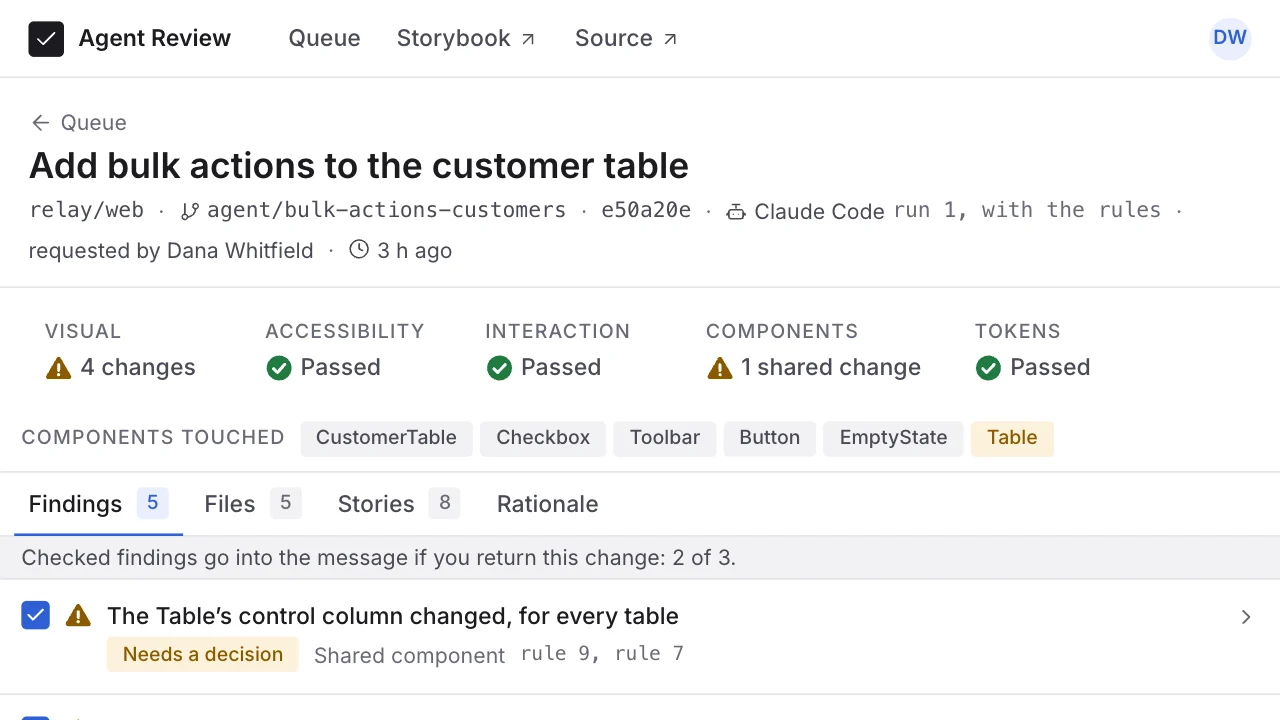
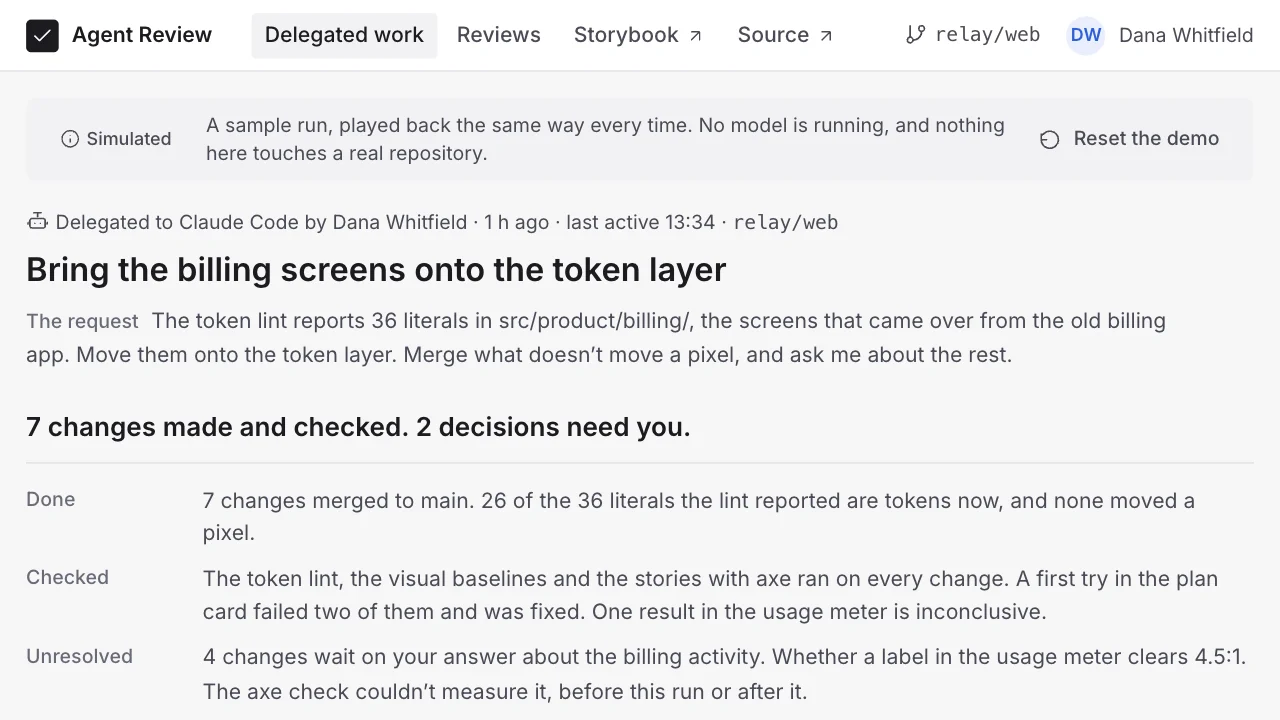
The Agent Review card and share images show the delegated work, the screen their words now describe
The card (homepage and lab index) is the product's front door at its 784px
tablet layout: the simulated label, the title and the account's first
three rows, whole, with the crop ending where the Scope row begins. The
share cards (og agent-review and lab) get their own square,
img/lab/agent-review-share.webp at 520 wide, because their frame crops a
16:9 picture to the middle and cut every line of this screen at both ends.
Both captured from the deployed product by scripts/lab-cards.mjs; og.mjs
re-run for agent-review and lab. Card ?v=6 -> 7, og:image ?v=2, the
homepage alt text, its comment and the README describe the new picture.

diff --git a/index.html b/index.html
@@ -654,9 +654,10 @@
                lead says what it is now (handing UI work to an agent and
                knowing what came back) and the direction (asking for a person
                less often); the three bullets are what that screen does, each
-               a claim the product makes on its own screen. The picture is
-               still the first iteration's change screen, which is still in
-               the product under Reviews. -->
+               a claim the product makes on its own screen. The picture
+               followed the same day: the delegated work at the product's
+               784px tablet layout (scripts/lab-cards.mjs), the simulated
+               label, the title and the account's first three rows. -->
           <div class="case-card case-card--lab reveal">
             <div class="case-card-body">
               <p class="section-eyebrow case-card-eyebrow">Lab &middot; current exploration</p>
@@ -675,7 +676,7 @@
             </div>
             <a class="case-thumb build-laptop" href="lab/agent-review.html" aria-label="Read the Agent Review case study">
               <div class="build-laptop-lid">
-                <img decoding="async" loading="lazy" src="img/lab/agent-review-card.webp?v=6" alt="Agent Review open on the change &ldquo;Add bulk actions to the customer table&rdquo;, built by Claude Code: a validation line reading Visual 4 changes, Accessibility passed, Interaction passed, Components 1 shared change, Tokens passed, with a caution triangle on the two that need a look; the components the change touched; and the first finding, &ldquo;The Table&rsquo;s control column changed, for every table&rdquo;, marked Needs a decision under shared component rules 9 and 7." width="1280" height="720"/>
+                <img decoding="async" loading="lazy" src="img/lab/agent-review-card.webp?v=7" alt="Agent Review open on its delegated work, labeled Simulated: &ldquo;Bring the billing screens onto the token layer&rdquo;, delegated to Claude Code, and the account the screen opens on, &ldquo;7 changes made and checked. 2 decisions need you.&rdquo;, with what was done, how it was checked, and what is unresolved." width="1280" height="720"/>
               </div>
             </a>
           </div>

diff --git a/lab/index.html b/lab/index.html
@@ -19,7 +19,7 @@
   <meta property="og:url" content="https://adamhickey.com/lab/index.html" />
   <meta property="og:title" content="Design Systems for Humans and Agents | Adam Hickey" />
   <meta property="og:description" content="Experiments in React, AI-assisted prototyping, component systems and interfaces where design decisions survive into code. Agent Review, a tool for reviewing UI written by coding agents, and two working prototypes of operational software on synthetic data." />
-  <meta property="og:image" content="https://adamhickey.com/img/og/lab.jpg" />
+  <meta property="og:image" content="https://adamhickey.com/img/og/lab.jpg?v=2" />
   <meta property="og:image:width" content="1200" />
   <meta property="og:image:height" content="630" />
   <meta name="twitter:card" content="summary_large_image" />
@@ -238,7 +238,7 @@
         <ol class="writing-list">
           <li class="writing-item">
             <a class="writing-link" href="agent-review.html">
-              <img class="writing-card" src="../img/lab/agent-review-card.webp?v=6" width="1280" height="720" alt="" decoding="async" />
+              <img class="writing-card" src="../img/lab/agent-review-card.webp?v=7" width="1280" height="720" alt="" decoding="async" />
               <div class="writing-text">
                 <h3 class="writing-title">Agent Review: making a design system executable for coding agents</h3>
                 <p class="writing-dek">If agents can write production UI, how does a team make sure they inherit the decisions already made? A React component system with tokens and a Storybook, the rules an agent reads before touching it, a controlled experiment where Claude Code added a feature inside it, the validation that caught where it drifted, and the tool a person uses to review the consequences and send a precise correction back. Its second iteration designs for delegating more of the work: results first, boundaries in plain words, and rules a person can edit or revoke.</p>

diff --git a/lab/agent-review.html b/lab/agent-review.html
@@ -19,7 +19,7 @@
   <meta property="og:url" content="https://adamhickey.com/lab/agent-review.html" />
   <meta property="og:title" content="Agent Review: Making a Design System Executable for Coding Agents | Adam Hickey" />
   <meta property="og:description" content="A case study in handing UI work to coding agents: a React component system with tokens and a Storybook, the rules an agent reads before touching it, a controlled experiment where Claude Code added a feature inside it, the validation that caught where it drifted, the tool a product designer uses to review what came back, and a second iteration designed for agents that need less supervision." />
-  <meta property="og:image" content="https://adamhickey.com/img/og/agent-review.jpg" />
+  <meta property="og:image" content="https://adamhickey.com/img/og/agent-review.jpg?v=2" />
   <meta property="og:image:width" content="1200" />
   <meta property="og:image:height" content="630" />
   <meta name="twitter:card" content="summary_large_image" />
@@ -37,7 +37,7 @@
           "description": "A case study in handing UI work to coding agents: a React component system with tokens and a Storybook, the rules an agent reads before touching it, a controlled experiment where Claude Code added a feature inside it, the validation that caught where it drifted, the tool a product designer uses to review what came back, and a second iteration designed for agents that need less supervision.",
           "url": "https://adamhickey.com/lab/agent-review.html",
           "mainEntityOfPage": "https://adamhickey.com/lab/agent-review.html",
-          "image": "https://adamhickey.com/img/og/agent-review.jpg",
+          "image": "https://adamhickey.com/img/og/agent-review.jpg?v=2",
           "datePublished": "2026-10-01",
           "dateModified": "2026-10-03",
           "author": {

diff --git a/README.md b/README.md
@@ -302,10 +302,11 @@ write-ups'. On the homepage the lab is one card under the three accounts
 in Selected work, where the two prototype cards sat until 2026-10-01, and
 since #343 it is about Agent Review rather than the lab as a family: the
 product's own screen (`img/lab/agent-review-card.webp`, from
-`scripts/lab-cards.mjs`, the capture the lab index uses too: run 1's change
-screen at the product's 720px tablet layout, one column of type that can be
-read at card size, where the full desktop review it replaced on 2026-10-02
-could not) in the laptop
+`scripts/lab-cards.mjs`, the capture the lab index uses too: since
+2026-10-03 the delegated work, the product's front door, at its 784px tablet
+layout, one column of type that can be read at card size; before that run
+1's change screen at 720, and before 2026-10-02 the full desktop review,
+which could not be read at that size) in the laptop
 the case studies frame their wide captures in, beside the question the lab
 asks, the project, its result and two links, with the two prototypes and
 the lab index as one line under it. The write-up's four figures are `scripts/lab-shots.mjs`, not hand
